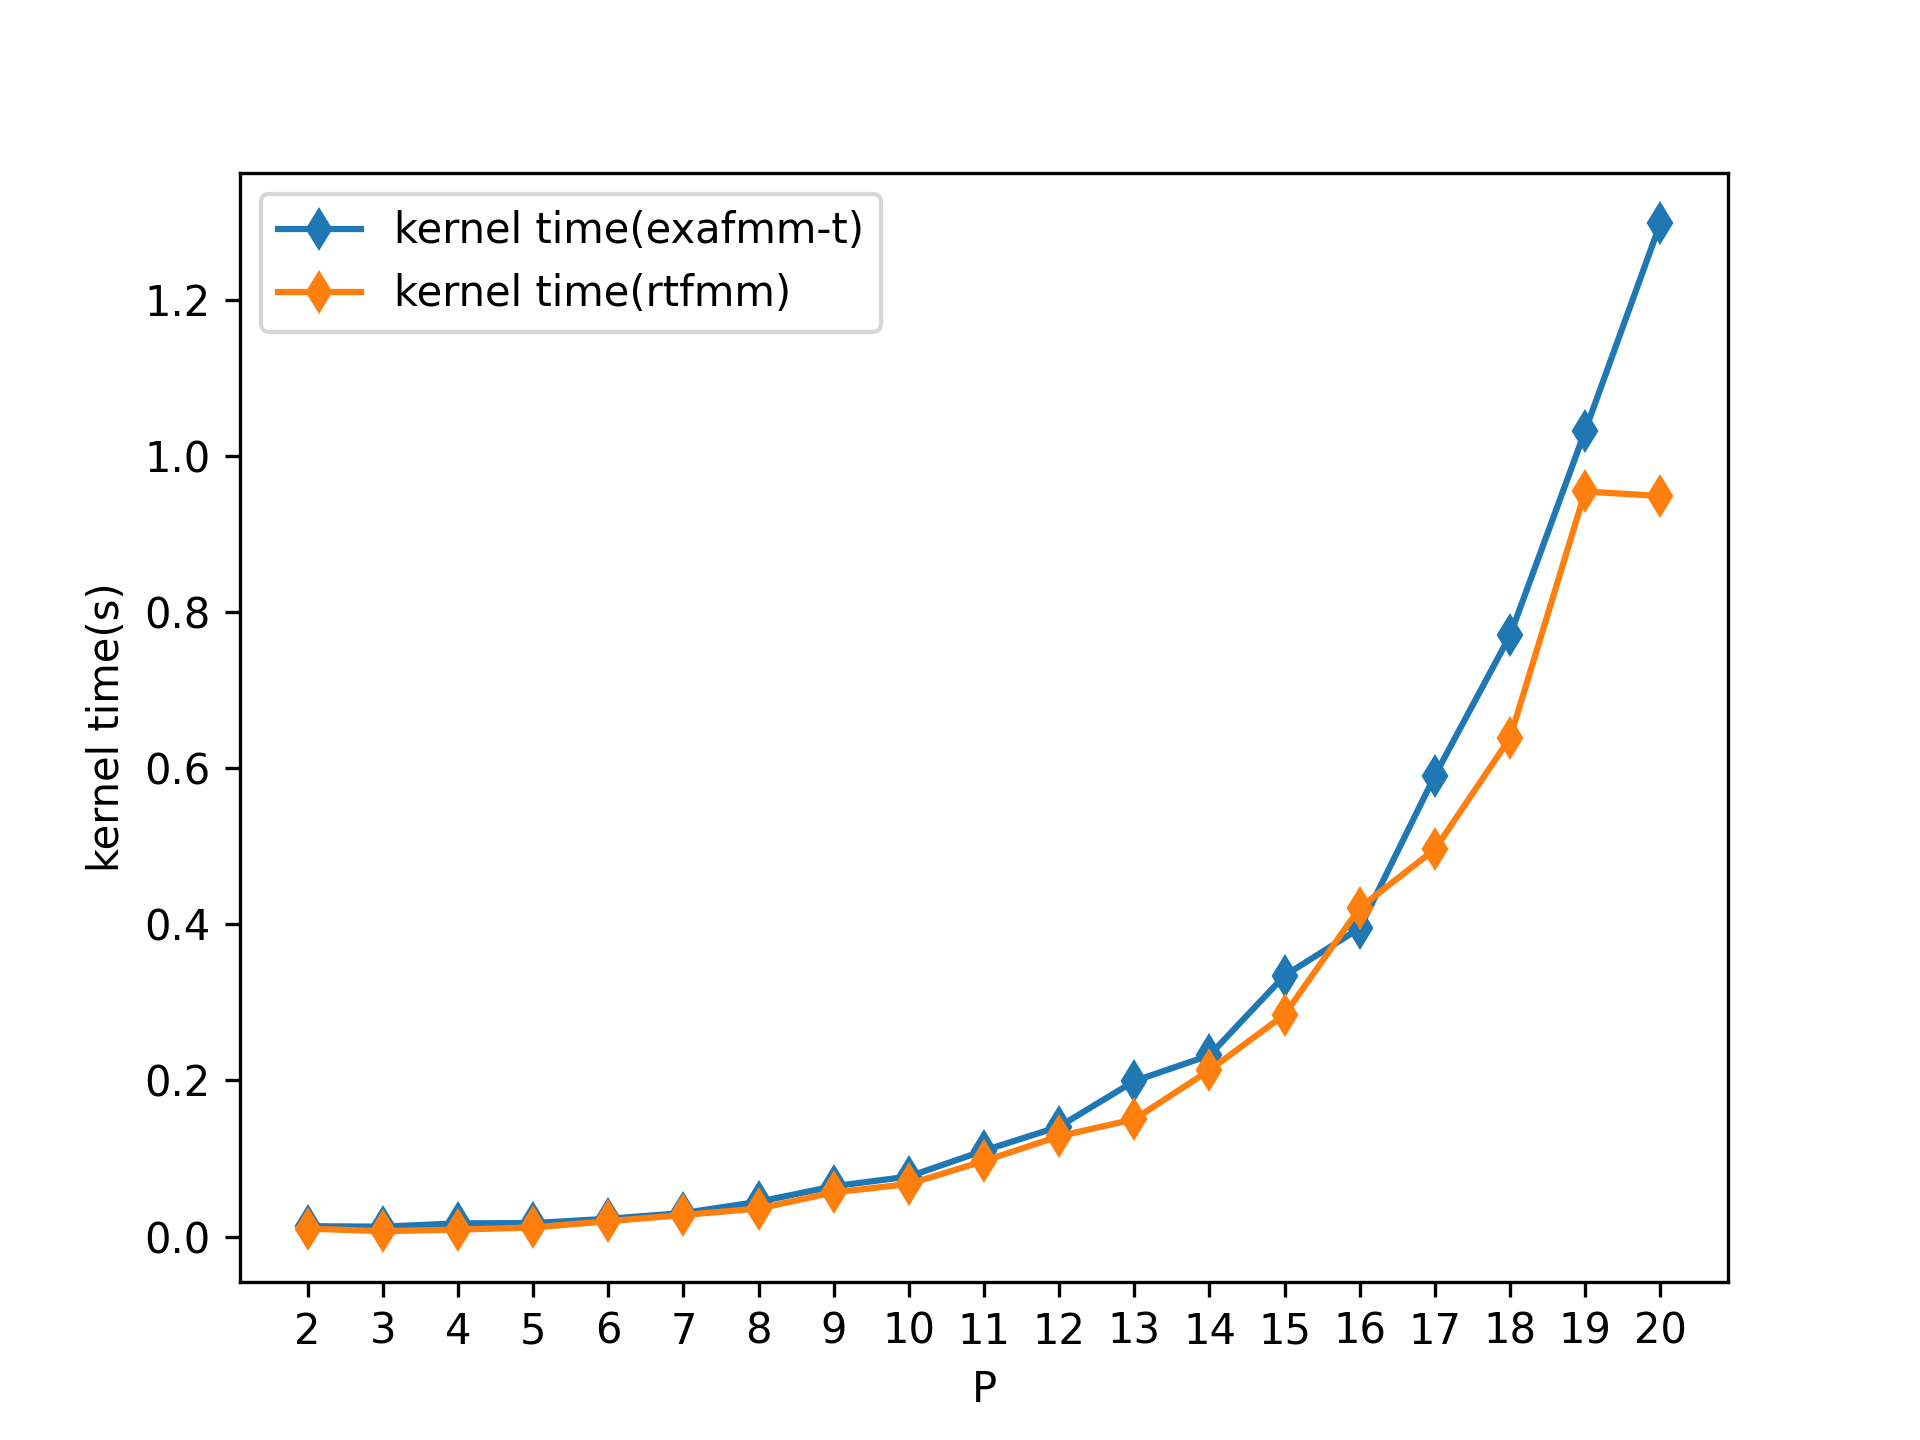
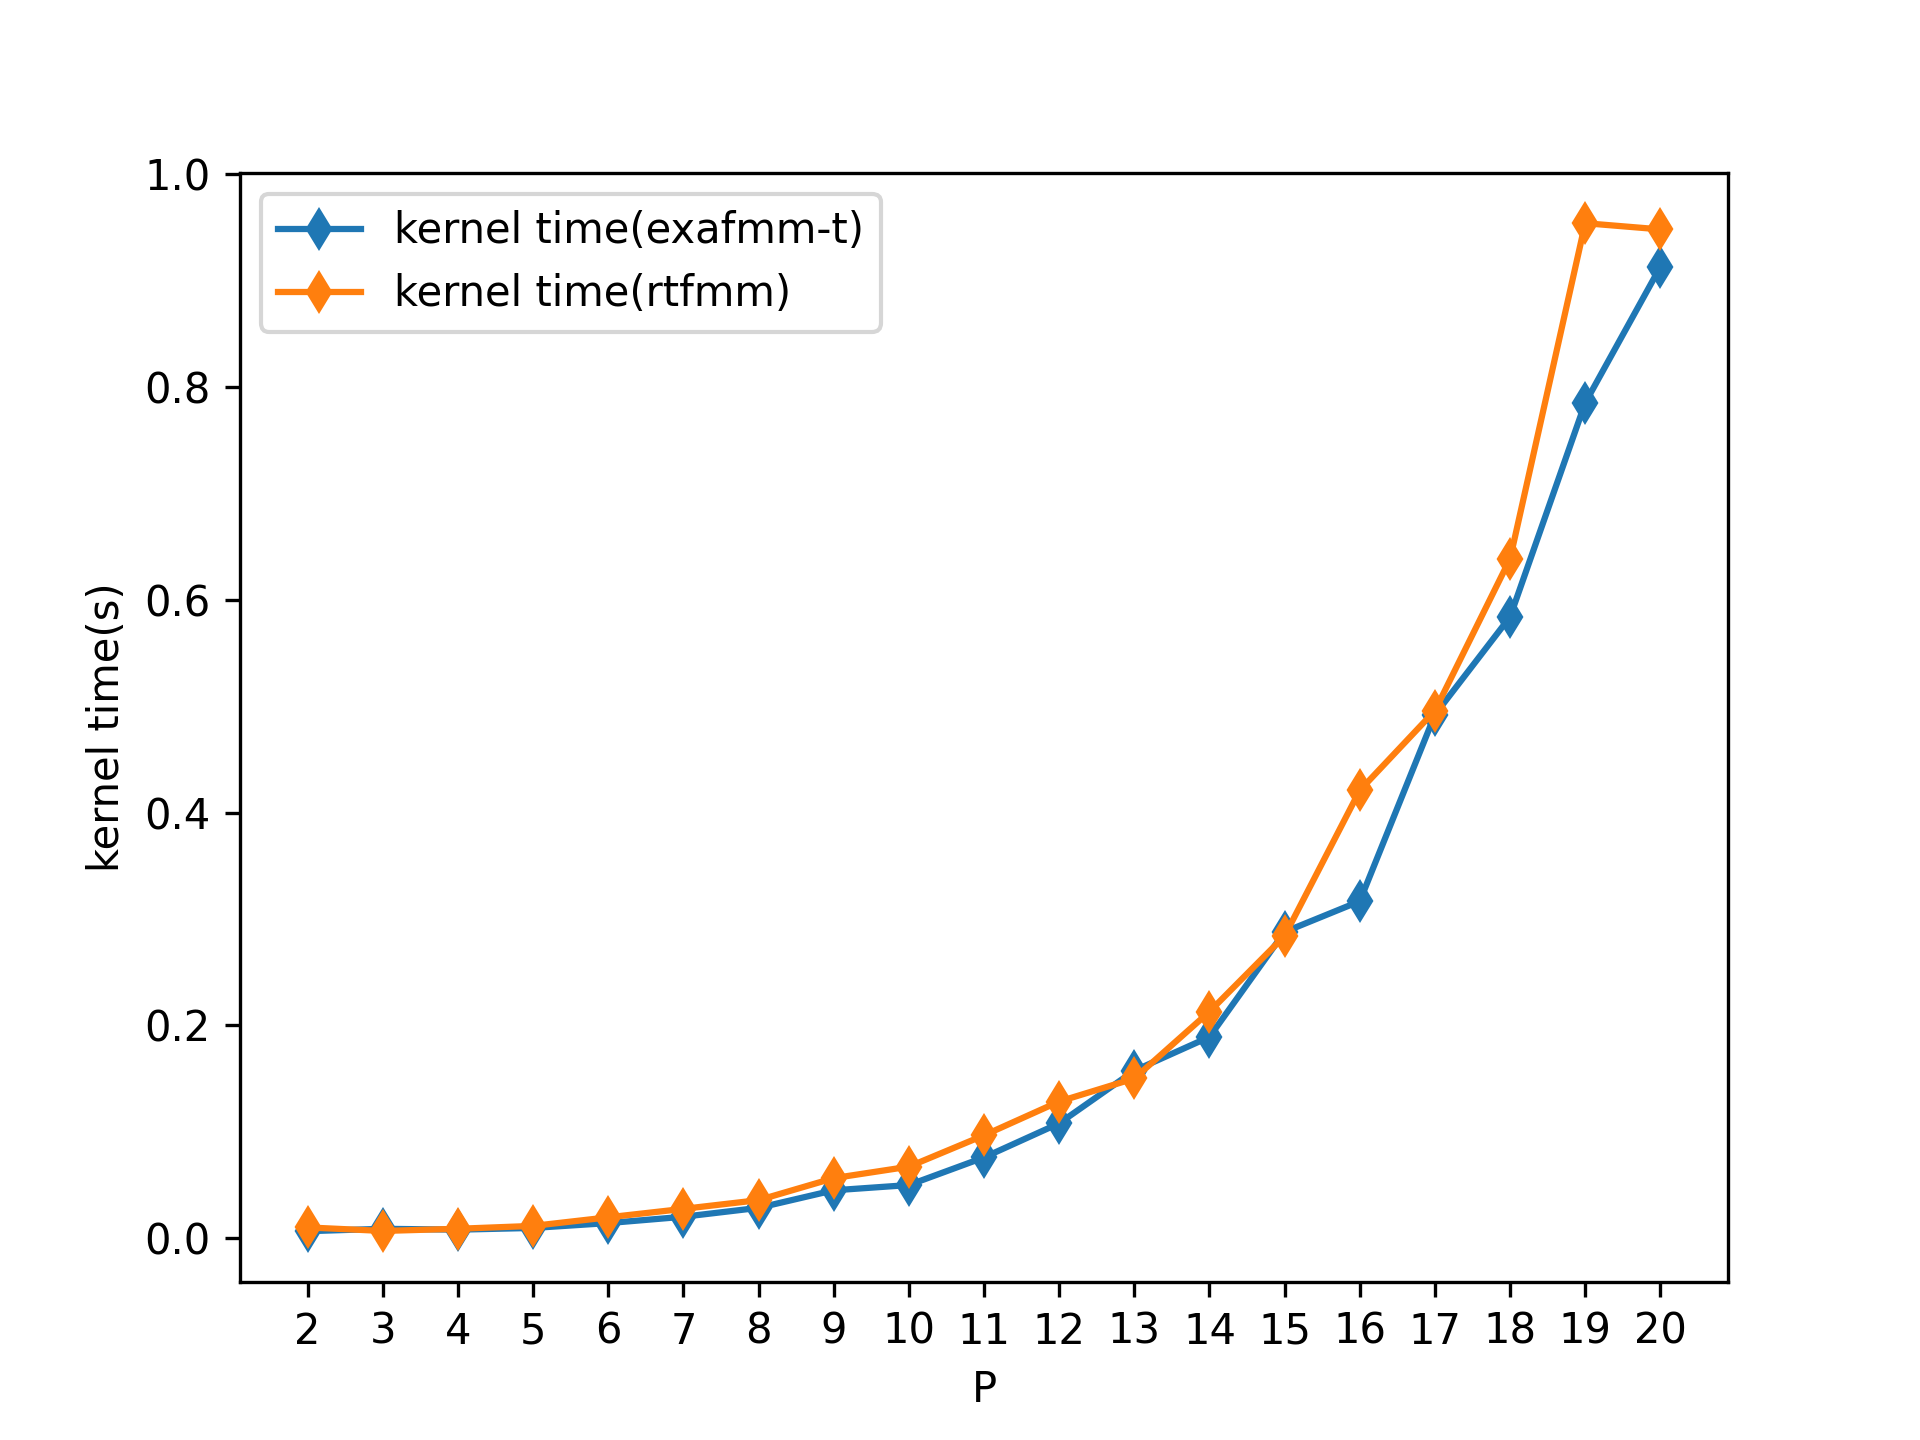
fix figures

diff --git a/3dpp/data/plot.py b/3dpp/data/plot.py
@@ -3,39 +3,39 @@ import numpy as np
 from matplotlib.pyplot import figure
 import re
 
-def get_exafmmt_data():
+def get_exafmmt_data(n=20):
     #res = open("/home/jiamian/exafmm-t/exafmm-t/tests/slurm-147765.out") # -T 8
     #res = open("/home/jiamian/exafmm-t/exafmm-t/tests/slurm-147767.out") # -T 12
-    res = open("/home/jiamian/exafmm-t/exafmm-t/tests/slurm-149349.out") # -T 8 ad4_1
+    res = open("/home/jiamian/exafmm-t/exafmm-t/tests/slurm-149351.out") # -T 8 ad4_1
     txt = res.read()
-    data1 = re.findall(r'Potential Error L2   : (.*)\n',txt)
-    data2 = re.findall(r'Gradient Error L2    : (.*)\n',txt)
-    data3 = re.findall(r'Evaluation           : (.*)\n',txt)
-    data4 = re.findall(r'Total                : (.*)\n',txt)
+    data1 = re.findall(r'Potential Error L2   : (.*)\n',txt)[:n]
+    data2 = re.findall(r'Gradient Error L2    : (.*)\n',txt)[:n]
+    data3 = re.findall(r'Evaluation           : (.*)\n',txt)[:n]
+    data4 = re.findall(r'Total                : (.*)\n',txt)[:n]
     L2p = [eval(e) for e in data1]
     L2f = [eval(e) for e in data2]
     L2kt = [eval(e) for e in data3]
     L2tt = [eval(e) for e in data4]
-    fmmdata = re.findall(r'P                    : (.*)', txt)
+    fmmdata = re.findall(r'P                    : (.*)', txt)[:n]
     p = [eval(fmm) for fmm in fmmdata]
     return p, L2p, L2f, L2kt, L2tt
 
-def get_rtfmm_data():
+def get_rtfmm_data(n=20):
     #res = open("slurm-147766.out") # --th_num 8 sse
     #res = open("slurm-147776.out") # --th_num 12 sse
     #res = open("slurm-148813.out") # --th_num 8 avx
     #res = open("slurm-148810.out") # --th_num 12 avx
     res = open("slurm-149348.out") # --th_num 8 avx t
     txt = res.read()
-    data1 = re.findall(r'L2  \(p\)  : (.*)L2  \(f\)',txt)
-    data2 = re.findall(r'L2  \(f\)  : (.*)L2  \(e\)',txt)
-    data3 = re.findall(r'\[FMM_kernels time measured : (.*) seconds.\]\n',txt)
-    data4 = re.findall(r'\[FMM time measured : (.*) seconds.\]\n',txt)
+    data1 = re.findall(r'L2  \(p\)  : (.*)L2  \(f\)',txt)[:n]
+    data2 = re.findall(r'L2  \(f\)  : (.*)L2  \(e\)',txt)[:n]
+    data3 = re.findall(r'\[FMM_kernels time measured : (.*) seconds.\]\n',txt)[:n]
+    data4 = re.findall(r'\[FMM time measured : (.*) seconds.\]\n',txt)[:n]
     L2p = [eval(e) for e in data1]
     L2f = [eval(e) for e in data2]
     L2kt = [eval(e) for e in data3]
     L2tt = [eval(e) for e in data4]
-    fmmdata = re.findall(r'  P                    = (.*)', txt)
+    fmmdata = re.findall(r'  P                    = (.*)', txt)[:n]
     p = [eval(fmm) for fmm in fmmdata]
     return p, L2p, L2f, L2kt, L2tt
 

diff --git a/3dpp/data/plot_step.py b/3dpp/data/plot_step.py
@@ -4,26 +4,26 @@ from matplotlib.pyplot import figure
 import re
 
 
-def get_exafmmt_data(step):
+def get_exafmmt_data(step,n=20):
     #res = open("/home/jiamian/exafmm-t/exafmm-t/tests/slurm-147765.out") # -T 8
     #res = open("/home/jiamian/exafmm-t/exafmm-t/tests/slurm-147767.out") # -T 12
-    res = open("/home/jiamian/exafmm-t/exafmm-t/tests/slurm-149349.out") # -T 8 ad4_1
+    res = open("/home/jiamian/exafmm-t/exafmm-t/tests/slurm-149351.out") # -T 8 ad4_1
     txt = res.read()
-    data1 = re.findall(step + r'                  : (.*)\n',txt)
+    data1 = re.findall(step + r'                  : (.*)\n',txt)[:n]
     value = [eval(e) for e in data1]
-    fmmdata = re.findall(r'P                    : (.*)', txt)
+    fmmdata = re.findall(r'P                    : (.*)', txt)[:n]
     p = [eval(fmm) for fmm in fmmdata]
     return p, value
 
-def get_rtfmm_data(step):
+def get_rtfmm_data(step,n=20):
     #res = open("slurm-147766.out") # --th_num 8 sse
     #res = open("slurm-148810.out") # --th_num 12 avx
     #res = open("slurm-148813.out") # --th_num 8 avx
     res = open("slurm-149348.out") # --th_num 8 avx t
     txt = res.read()
-    data1 = re.findall(step + r' time measured : (.*) seconds.\]',txt)
+    data1 = re.findall(step + r' time measured : (.*) seconds.\]',txt)[:n]
     value = [eval(e) for e in data1]
-    fmmdata = re.findall(r'  P                    = (.*)', txt)
+    fmmdata = re.findall(r'  P                    = (.*)', txt)[:n]
     p = [eval(fmm) for fmm in fmmdata]
     return p, value
 
